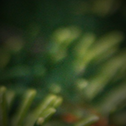
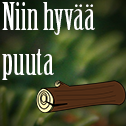
Background music added

diff --git a/Joulukalenteri/src/Frontend/Main.java b/Joulukalenteri/src/Frontend/Main.java
@@ -26,7 +26,8 @@ public class Main extends javax.swing.JFrame {
 
         avatut = new Avatut();
         file = new File(avatut);
-
+        
+        music.audioLoop("Music/Minecraft Music - Menu 1.wav");
     }
 
     /**
@@ -397,6 +398,11 @@ public class Main extends javax.swing.JFrame {
         luukku16.setIcon(new javax.swing.ImageIcon(getClass().getResource("/Pictures/Luukku16.png"))); // NOI18N
         luukku16.setBorderPainted(false);
         luukku16.setContentAreaFilled(false);
+        luukku16.addActionListener(new java.awt.event.ActionListener() {
+            public void actionPerformed(java.awt.event.ActionEvent evt) {
+                luukku16ActionPerformed(evt);
+            }
+        });
         getContentPane().add(luukku16, new org.netbeans.lib.awtextra.AbsoluteConstraints(780, 480, 130, 130));
 
         luukku1.setIcon(new javax.swing.ImageIcon(getClass().getResource("/Pictures/Luukku1.png"))); // NOI18N
@@ -572,6 +578,13 @@ public class Main extends javax.swing.JFrame {
         file.Kirjoitus();
         music.audio("Music/10v100v.wav");
     }//GEN-LAST:event_luukku5ActionPerformed
+
+    private void luukku16ActionPerformed(java.awt.event.ActionEvent evt) {//GEN-FIRST:event_luukku16ActionPerformed
+        // TODO add your handling code here:
+        luukku16(false);
+        file.Kirjoitus();
+        music.audio("Music/Vesa-Matti Hyvaa puuta.wav");
+    }//GEN-LAST:event_luukku16ActionPerformed
 
     public void luukku1(boolean value) {
         if (!value) {

diff --git a/Joulukalenteri/src/Backend/Music.java b/Joulukalenteri/src/Backend/Music.java
@@ -23,7 +23,20 @@ public class Music {
             System.err.println("Put the music.wav file in the sound folder if you want to play background music, only optional!");
         }
     }
+    
+    public void audioLoop(String audio) {
+        try {
+            File file = new File(audio);
+            clip = AudioSystem.getClip();
+            clip.open(AudioSystem.getAudioInputStream(file));
+            clip.start();
+            clip.loop(Clip.LOOP_CONTINUOUSLY);
 
+        } catch (Exception e) {
+            System.err.println("Put the music.wav file in the sound folder if you want to play background music, only optional!");
+        }
+    }
+    
     public void stopMusic() {
         clip.stop();
     }
